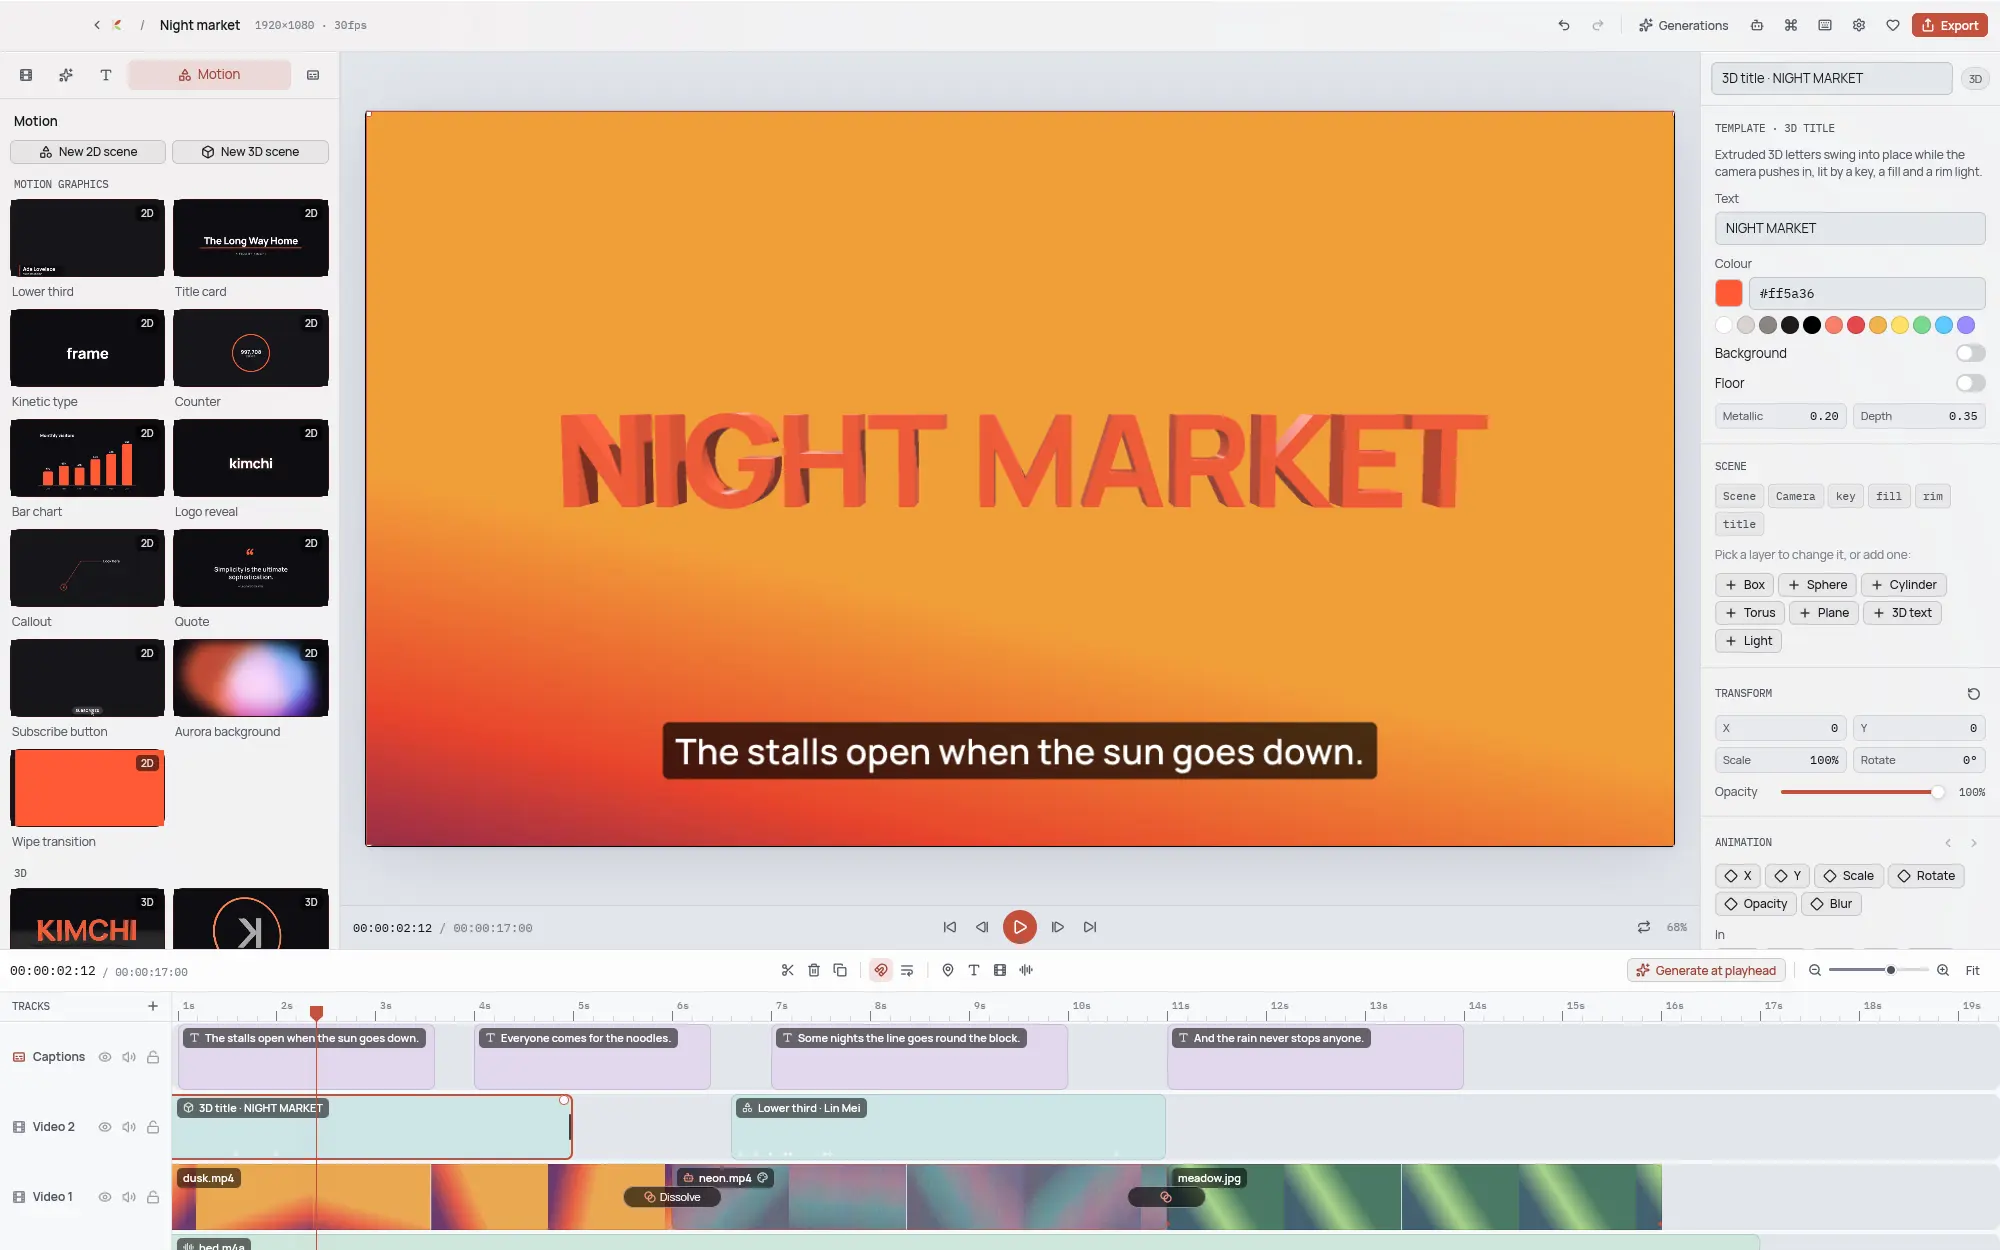
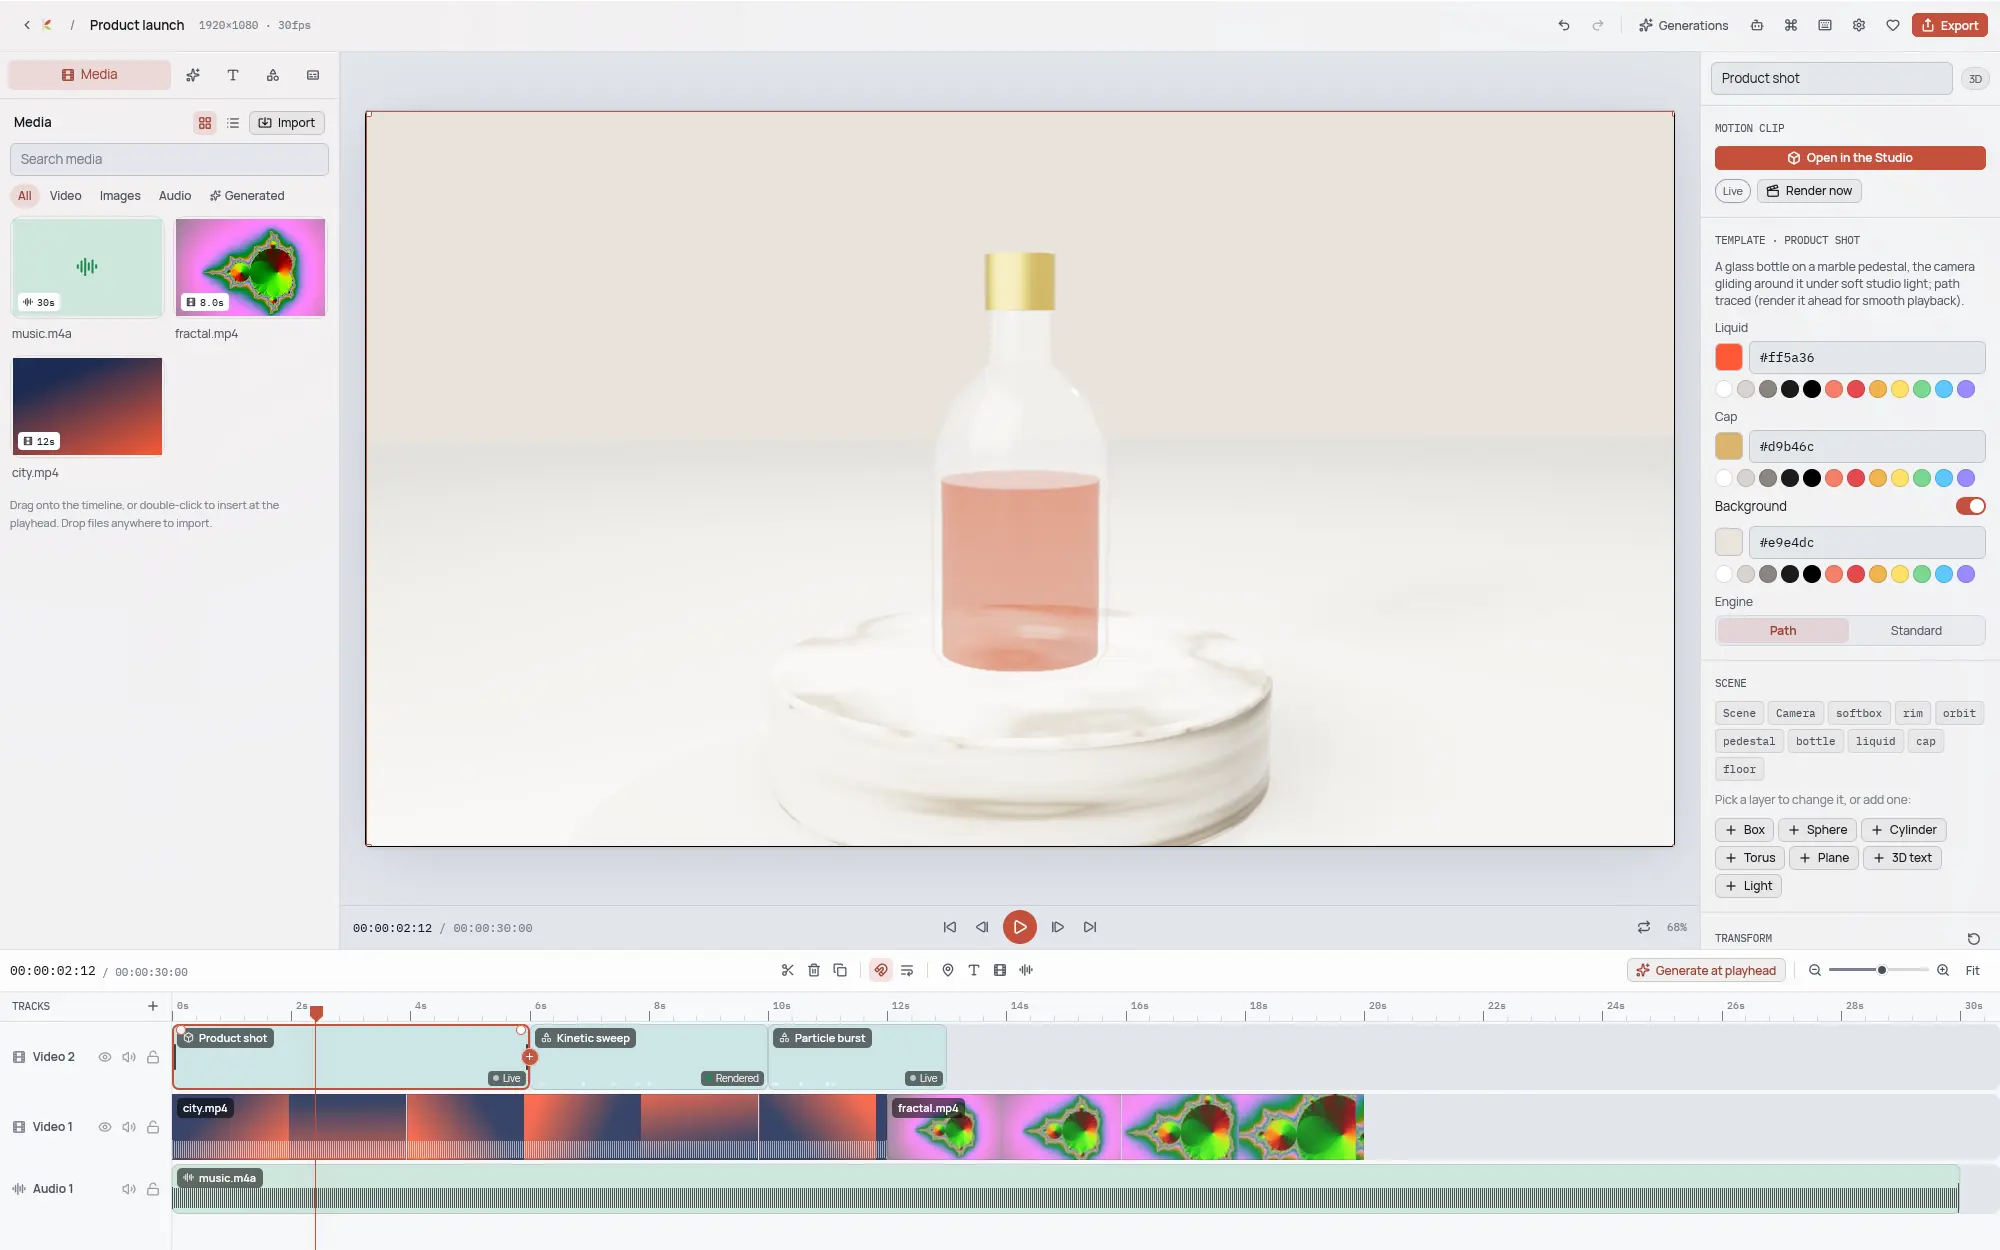
kimchi page for 0.7.0: Blender-like 3D, After Effects-like 2D, the Studio, render ahead; new captures; 164 commands

diff --git a/kimchi/index.html b/kimchi/index.html
@@ -4,7 +4,7 @@
   <meta charset="utf-8">
   <meta name="viewport" content="width=device-width, initial-scale=1">
   <title>kimchi — the open-source video editor where generation is part of the cut · lsuite</title>
-  <meta name="description" content="kimchi is a free, open-source desktop video editor, native and written in Rust, with a built-in harness for image and video models: generate at the playhead, animate a frame, extend a shot, bridge two clips. Keyframes, motion graphics and 3D, transitions, colour and local captions. Your AI can drive all of it through MCP, a CLI or the built-in agent.">
+  <meta name="description" content="kimchi is a free, open-source desktop video editor, native and written in Rust, with a built-in harness for image and video models: generate at the playhead, animate a frame, extend a shot, bridge two clips. Blender-like 3D with modelling and a path tracer, After Effects-like 2D motion design, keyframes and expressions, transitions, colour and local captions. Your AI can drive all of it through MCP, a CLI or the built-in agent.">
   <meta name="theme-color" content="#0b0c0f" media="(prefers-color-scheme: dark)">
   <meta name="theme-color" content="#eef0f4" media="(prefers-color-scheme: light)">
   <link rel="canonical" href="%ORIGIN%/kimchi">
@@ -12,7 +12,7 @@
   <meta property="og:type" content="website">
   <meta property="og:site_name" content="lsuite">
   <meta property="og:title" content="kimchi — the video editor where generation is part of the cut">
-  <meta property="og:description" content="A real multi-track editor with image and video models woven in, motion graphics and 3D drawn in. Rust core, 15 providers, your keys or fully local. Free and MIT licensed.">
+  <meta property="og:description" content="A real multi-track editor with image and video models woven in, 2D motion design and 3D modelling drawn in. Rust core, 15 providers, your keys or fully local. Free and MIT licensed.">
   <meta property="og:url" content="%ORIGIN%/kimchi">
   <meta property="og:image" content="%ORIGIN%/assets/img/og/kimchi.png">
   <meta name="twitter:card" content="summary_large_image">
@@ -35,7 +35,7 @@
         <div><div class="appid__name">kimchi</div><div class="appid__kind">lsuite · video</div></div>
       </div>
       <h1 class="display reveal" style="--d:1">Cut it, or <span class="accent">prompt it</span><br>onto the timeline.</h1>
-      <p class="lede reveal" style="--d:2">kimchi is a desktop video editor with a built-in harness for image and video models. Prompt a shot straight onto the timeline, animate a frame you like, extend a clip from its last frame or bridge two shots with a generated transition, then cut, trim and export it like any other footage. Titles, motion graphics and 3D are drawn by kimchi itself, and captions are transcribed on your computer.</p>
+      <p class="lede reveal" style="--d:2">kimchi is a desktop video editor with a built-in harness for image and video models. Prompt a shot straight onto the timeline, animate a frame you like, extend a clip from its last frame or bridge two shots with a generated transition, then cut, trim and export it like any other footage. Motion design like After Effects and 3D like Blender are built in, and captions are transcribed on your computer.</p>
       <div class="hero__actions reveal" style="--d:3">
         <a class="btn btn--primary" href="#downloads" data-download="kimchi" data-href-macos="/kimchi/download/macos-arm64" data-href-windows="/kimchi/download/windows-x86_64" data-href-linux="/kimchi/download/linux-appimage"><svg viewBox="0 0 24 24" fill="none" stroke="currentColor" stroke-width="2" stroke-linecap="round" stroke-linejoin="round" aria-hidden="true"><path d="M12 4v12M6 11l6 6 6-6M5 20h14"/></svg><span data-os>Download kimchi</span></a>
         <a class="btn" href="#downloads">All platforms</a>
@@ -46,8 +46,8 @@
     <div class="wrap">
       <figure class="shot shot--hero reveal" style="--d:3">
         <picture>
-          <source srcset="/assets/img/kimchi/editor-light.webp" media="(prefers-color-scheme: light)">
-          <img src="/assets/img/kimchi/editor.webp" width="2000" height="1250" alt="kimchi's editor: the Motion tab's templates, a 3D title over the preview with a caption under it, the inspector's template, scene and animation controls, and a timeline with captions, motion clips, video joined by transitions and music" fetchpriority="high">
+          <source srcset="/assets/img/kimchi/studio-light.webp" media="(prefers-color-scheme: light)">
+          <img src="/assets/img/kimchi/studio.webp" width="2000" height="1250" alt="kimchi's Studio editing a 3D product shot: an outliner with cameras, lights, objects and shared materials, a viewport with a glass bottle on a marble pedestal, its selection outline and move handles, the lathe profile in the properties, and a dope sheet" fetchpriority="high">
         </picture>
       </figure>
     </div>
@@ -57,8 +57,8 @@
     <div class="wrap">
       <div class="stats reveal">
         <div><b>15</b><span>model providers, cloud and local</span></div>
-        <div><b>15</b><span>motion templates, 2D and 3D</span></div>
-        <div><b>128</b><span>commands, for you and your AI alike</span></div>
+        <div><b>24</b><span>motion templates, 2D and 3D</span></div>
+        <div><b>164</b><span>commands, for you and your AI alike</span></div>
         <div><b>0</b><span>accounts, subscriptions, telemetry</span></div>
       </div>
     </div>
@@ -67,22 +67,25 @@
   <section class="section" id="new" aria-labelledby="new-title">
     <div class="wrap">
       <div class="section__head">
-        <span class="eyebrow">New in 0.6</span>
-        <h2 class="h2 reveal" id="new-title">Steadier, and always up to date.</h2>
-        <p class="lede reveal" style="--d:1">0.6 is a stability release. Every part of kimchi went through a bug hunt, from the timeline to the media engine and the agent, and about seventy problems were fixed. kimchi now keeps a log, writes a crash report when something goes wrong, tells you what changed after an update, and updates itself on Windows too.</p>
+        <span class="eyebrow">New in 0.7</span>
+        <h2 class="h2 reveal" id="new-title">Blender and After Effects, inside the editor.</h2>
+        <p class="lede reveal" style="--d:1">0.7 turns motion clips into a full studio. Model in 3D, light it, give it glass, metal or marble and render it with a path tracer; build motion design with compositions, masks, mattes, effects and text animators. Open any motion clip in the Studio, then render it ahead for smooth playback, or leave it live until you export.</p>
       </div>
       <div class="grid grid--3">
-        <div class="cell reveal"><span class="cell__k">Stability</span><h3>Seventy fixes</h3><p>An edit that fails halfway leaves nothing half-done, a duplicated project keeps its generated media, and an agent stopped mid-batch can't leave changes hanging or undo yours.</p></div>
-        <div class="cell reveal" style="--d:1"><span class="cell__k">Diagnostics</span><h3>Logs and crash reports</h3><p>Each run keeps a log, and a problem leaves a report, even when kimchi didn't quit properly. Settings › Diagnostics shows them; Help › Report a Problem fills in your version and system. Nothing is sent anywhere.</p></div>
-        <div class="cell reveal" style="--d:2"><span class="cell__k">What's new</span><h3>Release notes in the app</h3><p>After an update kimchi shows what changed, once. Open them again from the Help menu, the command palette or Settings, along with every earlier version.</p></div>
-        <div class="cell reveal"><span class="cell__k">Updates</span><h3>Everywhere, by themselves</h3><p>kimchi checks every few hours, can install updates on its own, and restarts into them in one click. On Windows the signed installer runs when you restart or quit.</p></div>
-        <div class="cell reveal" style="--d:1"><span class="cell__k">Phone media</span><h3>Upright, bright, transparent</h3><p>Portrait photos stay upright, HDR video from recent phones is tone-mapped, and transparent WebM overlays keep their transparency.</p></div>
-        <div class="cell reveal" style="--d:2"><span class="cell__k">Long recordings</span><h3>Hundreds of cuts</h3><p>A podcast cut into hundreds of pieces exports on every system, sound cut from AAC lands exactly where it should, and 29.97 and 59.94 fps are exact.</p></div>
-        <div class="cell reveal"><span class="cell__k">Captions</span><h3>From any tool</h3><p>SRT and WebVTT files saved in other encodings, with odd spacing or no blank lines, import correctly, and text like “I &lt;3 you” stays whole.</p></div>
-        <div class="cell reveal" style="--d:1"><span class="cell__k">Your tools</span><h3>Found where they are</h3><p>ffmpeg, Claude Code and Codex installed with Homebrew, npm, nvm, Snap, Scoop, Chocolatey or WinGet are found, also when kimchi opens from the Dock. Generations ride out a short network drop.</p></div>
-        <div class="cell reveal" style="--d:2"><span class="cell__k">Windows and Linux</span><h3>At home on every system</h3><p>Window buttons where the system doesn't draw them, Ctrl instead of ⌘, Ctrl+Enter to send, and shortcuts that never fire while you type.</p></div>
+        <div class="cell reveal"><span class="cell__k">3D modelling</span><h3>Shapes you make</h3><p>Turn any object into a mesh and extrude, inset, bevel, loop cut, subdivide, bridge or spin it. Extrude logos from SVG paths, lathe profiles, draw tubes along curves, import OBJ, STL and glTF.</p></div>
+        <div class="cell reveal" style="--d:1"><span class="cell__k">Modifiers</span><h3>A stack that stays editable</h3><p>Subdivision, mirror, array, bevel, solidify, boolean, displace, twist, bend, wave, wireframe, explode and build, every value animatable, applied whenever you like.</p></div>
+        <div class="cell reveal" style="--d:2"><span class="cell__k">Light and render</span><h3>A path tracer</h3><p>Spot and area lights with soft shadows, skies and 360° panoramas, glass, clear coat and procedural marble, wood or cells. Depth of field, bloom and motion blur; true refraction with the path tracer.</p></div>
+        <div class="cell reveal"><span class="cell__k">Motion design</span><h3>Like After Effects</h3><p>Nested compositions with time remapping, parenting and nulls, feathered masks, track mattes, adjustment layers, 34 effects, repeaters and other shape operators, text animators, text on a path, particles.</p></div>
+        <div class="cell reveal" style="--d:1"><span class="cell__k">Expressions</span><h3>Formulas on anything</h3><p><code>wiggle(2, 30)</code>, <code>loopOut("pingpong")</code>, <code>time&nbsp;*&nbsp;90</code> or another layer's value, on any property, in 2D and 3D.</p></div>
+        <div class="cell reveal" style="--d:2"><span class="cell__k">Render or live</span><h3>Your choice per clip</h3><p>A motion clip is drawn live: quickly while you edit, at full quality in the export. Or render it ahead into a file the timeline plays smoothly; change the scene and it goes live again.</p></div>
       </div>
-      <p class="fine reveal" style="margin-top:18px"><a href="#changelog">Every version</a> · <a href="https://github.com/ludovic111/kimchi/releases/tag/v0.6.0">kimchi 0.6.0 on GitHub</a></p>
+      <figure class="shot reveal" style="margin-top:28px">
+        <picture>
+          <source srcset="/assets/img/kimchi/studio-2d-light.webp" media="(prefers-color-scheme: light)">
+          <img src="/assets/img/kimchi/studio-2d.webp" width="2000" height="1250" alt="The Studio on a 2D motion clip: a glowing word with a burst of sparks and a shockwave ring on the canvas, its layers in the outliner, its text settings in the properties and its keyframes in the dope sheet" loading="lazy">
+        </picture>
+      </figure>
+      <p class="fine reveal" style="margin-top:18px"><a href="#changelog">Every version</a> · <a href="https://github.com/ludovic111/kimchi/releases/tag/v0.7.0">kimchi 0.7.0 on GitHub</a></p>
     </div>
   </section>
 
@@ -190,6 +193,21 @@
       </div>
       <ol class="releases reveal">
         <li class="release release--now">
+          <div class="release__meta"><span class="release__v">0.7</span><time class="release__date" datetime="2026-10-04">4 Oct 2026</time></div>
+          <div class="release__body">
+            <h3>3D like Blender, motion design like After Effects</h3>
+            <ul>
+              <li><b>3D modelling</b>: editable meshes, a modifier stack, extruded logos, lathes, curve tubes, OBJ and STL models.</li>
+              <li><b>Lights, cameras and materials</b>: spot and area lights, worlds and panoramas, glass, clear coat and procedural surfaces, depth of field, several cameras, constraints, 3D particles, and a <b>path tracer</b>.</li>
+              <li><b>2D motion design</b>: compositions, parenting, masks, mattes, adjustment layers, 34 effects, shape operators, text animators, particles and motion blur.</li>
+              <li><b>Expressions</b> on every property, and the <b>Studio</b>, a workspace with an outliner, a viewport, properties, a dope sheet and a graph editor.</li>
+              <li><b>Render now or at export</b>: motion clips render ahead into a file the timeline plays, or stay live until you export.</li>
+              <li>Nine new templates; the Agent panel, timeline options and every shortcut are commands too (164 in all); Codex as the agent can delete and replace things.</li>
+            </ul>
+            <div class="release__links"><a class="release__link" href="https://github.com/ludovic111/kimchi/releases/tag/v0.7.0">Full notes for 0.7.0 →</a></div>
+          </div>
+        </li>
+        <li class="release">
           <div class="release__meta"><span class="release__v">0.6</span><time class="release__date" datetime="2026-10-03">3 Oct 2026</time></div>
           <div class="release__body">
             <h3>Steadier, with logs, crash reports and what's new</h3>

diff --git a/index.html b/index.html
@@ -89,7 +89,7 @@
           </div>
           <p class="card__say">A video editor where generation is part of the cut.</p>
           <p class="card__text">A real multi-track timeline with image and video models woven in: generate at the playhead, animate a frame, extend a shot, bridge two clips. Motion graphics, 3D and local captions. Your keys, or fully local.</p>
-          <div class="card__shot"><img src="/assets/img/kimchi/editor.webp" width="2000" height="1250" alt="kimchi's editor with a 3D title, captions and transitions on the timeline" loading="lazy"></div>
+          <div class="card__shot"><img src="/assets/img/kimchi/editor.webp" width="2000" height="1250" alt="kimchi's editor with a path-traced 3D product shot in the preview and motion clips, video and music on the timeline" loading="lazy"></div>
           <div class="card__foot"><span>v%VERSION:kimchi% · macOS · Windows · Linux</span><span class="link">Open <span class="arrow" aria-hidden="true">→</span></span></div>
         </a>
 
@@ -170,7 +170,7 @@
             <tr>
               <th scope="row">Command line</th>
               <td><span class="yes">Yes</span><small><code>ryolune-cli</code>, 199 commands</small></td>
-              <td><span class="yes">Yes</span><small><code>kimchi-cli</code>, 128 commands</small></td>
+              <td><span class="yes">Yes</span><small><code>kimchi-cli</code>, 164 commands</small></td>
               <td><span class="soon">Coming soon</span></td>
             </tr>
             <tr>

diff --git a/CLAUDE.md b/CLAUDE.md
@@ -33,6 +33,12 @@ has an "lsuite" section in its CLAUDE.md with its remaining gaps.
       `styles.css` (tier-1 glass, tokens only). Each kimchi release: add its card on top with
       `release--now` (move the class off the previous one), from `../kimchi/CHANGELOG.md`. The
       captures are still 0.5's (the window barely changed).
+- [x] kimchi 0.7 page (2026-10-04): New in 0.7 (Blender-like 3D: modelling, modifiers, path tracer;
+      After Effects-like 2D; expressions; render ahead or live), 24 templates, 164 commands (home table
+      and STANDARD.md too), changelog card. New captures from the release build on vscreen: the hero is the
+      Studio on a 3D product shot (`studio[-light].webp`), the New section shows the 2D Studio
+      (`studio-2d[-light].webp`), `editor[-light].webp` (also the home card) is the editor with the
+      path-traced product shot. The demo project is built by `kimchi-cli` in `~/.cache/kimchi-shots/`.
 - [ ] Keep the agent-readiness table on the home page and `STANDARD.md`'s status table in step
       as kimchi and zenith close their gaps.
 - [x] **Design system on the site itself** (2026-10-01): pages load `/design/tokens.css` before

diff --git a/STANDARD.md b/STANDARD.md
@@ -109,7 +109,7 @@ Every app wears the shared design system in `design/` (spec `design/DESIGN.md`, 
 
 | | ryolune | kimchi | zenith (coming soon) |
 | --- | --- | --- | --- |
-| Command registry, one undo | ✅ | ✅ 128 commands, one undo history | ✅ 52 `family.verb` commands (`zenith-commands`) shared by the window, CLI and MCP, git, pull requests and terminals included; undo is per turn (`thread.revert`) |
+| Command registry, one undo | ✅ | ✅ 164 commands, one undo history | ✅ 52 `family.verb` commands (`zenith-commands`) shared by the window, CLI and MCP, git, pull requests and terminals included; undo is per turn (`thread.revert`) |
 | CLI | ✅ `ryolune-cli` | ✅ `kimchi-cli` (running app or `--file`) | ✅ `zenith-cli` |
 | MCP | ✅ `ryolune-mcp --live` | ✅ `kimchi-mcp --live` | ✅ `zenith-mcp --live`, and `/mcp` handed to each thread's agent |
 | Built-in agent | ✅ | ✅ Agent panel (Claude Code, Codex, API keys, Ollama) | ✅ Claude Code and Codex threads |
